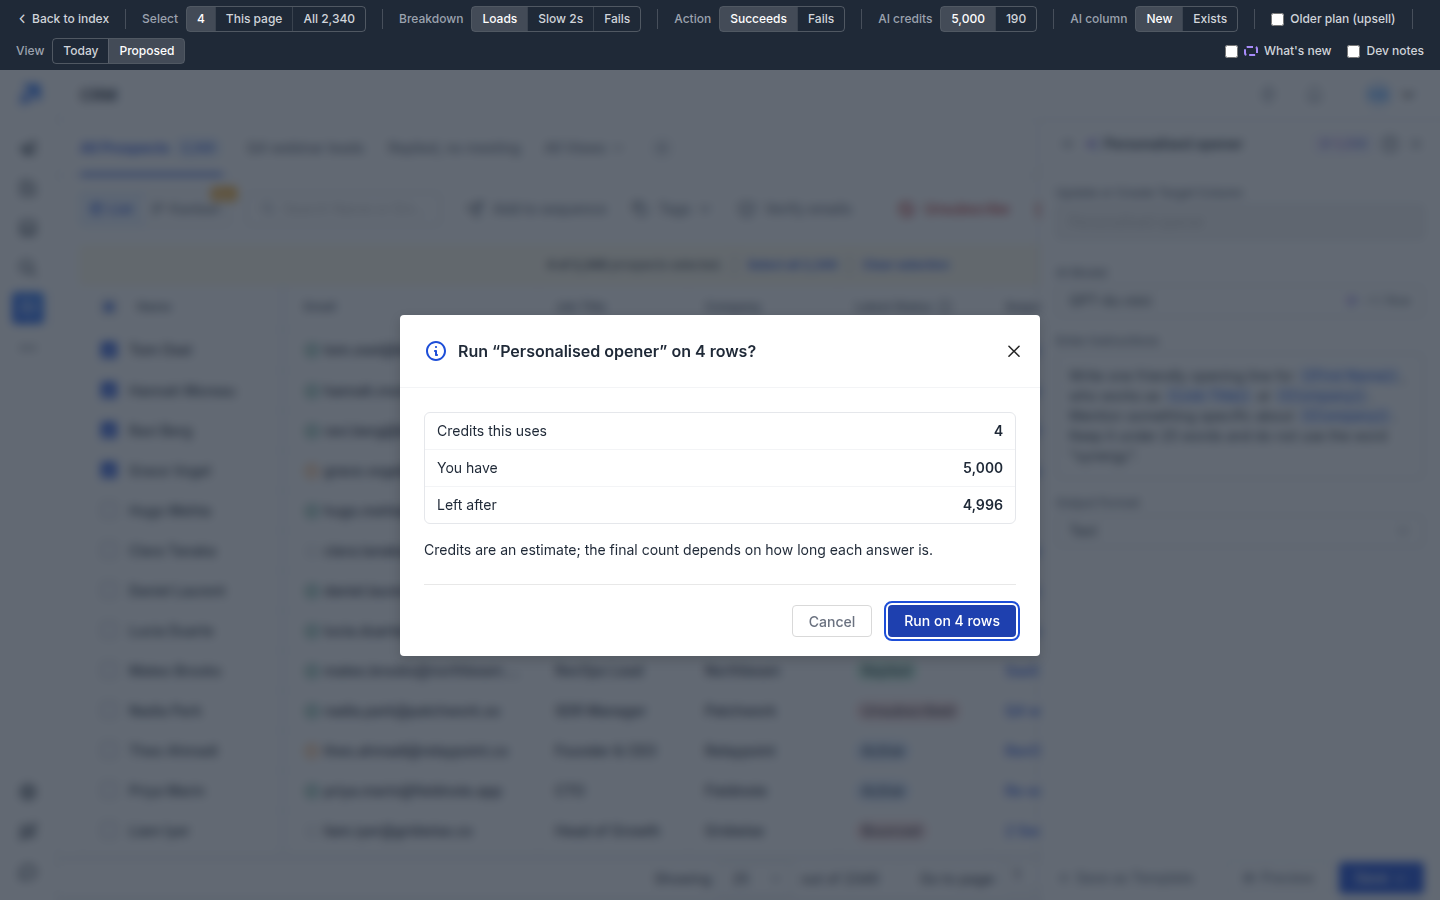
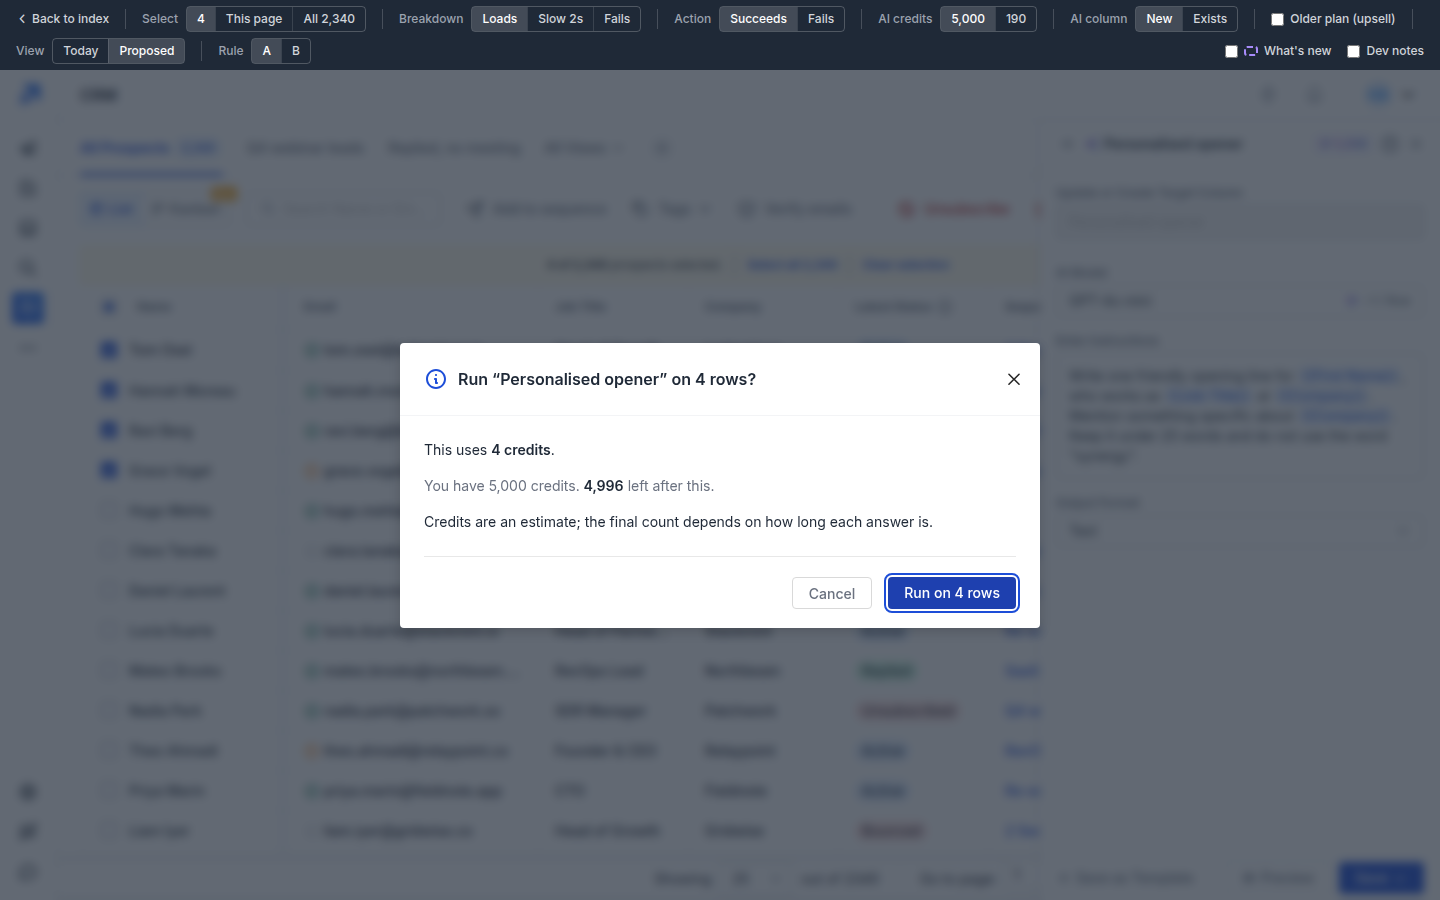
Credit dialogs read as a receipt; versioned script refs
- Mixed costs: one row per type with count x rate, total last; one cost is a sentence
- Balance is one line under it: You have X credits. Y left after this (or Z short, in red)
- Shared by Lead Finder reveal, Save to list, Add to sequence, Email Verifier, CRM AI run and replace
- Spec credit rule, PRD LF-1, dev notes, screens 20 27 28 updated
- Local scripts and styles load with ?v=20261120 so a cached kit cannot pair with new page code

diff --git a/prototype/lead-finder.js b/prototype/lead-finder.js
@@ -109,9 +109,9 @@
     devNotes: {
       intro: 'Spec rows 21 to 25. Credit totals are count x per-lead rate, known before the dialog opens, so L dialogs have no counting state. Remove from list is the only action here with undo; spends never get undo.',
       rows: [
-        { n: 21, surface: 'Lead Finder > People (Total, New)', action: 'Bulk View Work Email, View Phone', patterns: 'A L', breakdown: 'Credits by type: work emails at 1 credit, phone numbers at 6 (View Phone reveals email + phone, 7 per lead). You have, Left after; shortfall replaces Left after. Partial run spends what is there. Today\'s tag picker is kept inside the dialog.', undo: 'No (spend)',
+        { n: 21, surface: 'Lead Finder > People (Total, New)', action: 'Bulk View Work Email, View Phone', patterns: 'A L', breakdown: 'A receipt: work emails 250 × 1, phone numbers 250 × 6 (View Phone reveals email + phone, 7 per lead), total last. One cost alone is a sentence. Under it one balance line: "You have 4,820 credits. 3,070 left after this.", or "60 short." in red. Partial run spends what is there. Today\'s tag picker is kept inside the dialog.', undo: 'No (spend)',
           code: [{ label: 'v2-lead-header.tsx L636-666 (View Work Email, View Phone)', url: V2 + 'header/v2-lead-header.tsx#L636-L666' }, { label: 'useBulkReveal.ts L134-184 (per-lead costs, check only)', url: V2 + 'hooks/useBulkReveal.ts#L134-L184' }, { label: 'bulk-reveal-tag-modal.tsx L52-58 (count, no credit total)', url: V2 + 'modal/bulk-reveal-tag-modal/bulk-reveal-tag-modal.tsx#L52-L58' }, { label: 'credit-not-available-modal.tsx (per-lead price only)', url: V2 + 'modal/credit-not-available-modal/credit-not-available-modal.tsx' }] },
-        { n: 22, surface: 'Lead Finder > People (Total, New)', action: 'Save to List, Add to Sequence with reveal', patterns: 'L', breakdown: 'Credits this uses (by type when Email + Phone is on), You have, Left after. Saved tab spends nothing and skips the cost step.', undo: 'No (spend)',
+        { n: 22, surface: 'Lead Finder > People (Total, New)', action: 'Save to List, Add to Sequence with reveal', patterns: 'L', breakdown: 'Same receipt and balance line as row 21 (one row per type when Email + Phone is on). Saved tab spends nothing and skips the cost step.', undo: 'No (spend)',
           code: [{ label: 'add-to-list-dropdown.tsx L527-616 (per-unit chip, no total)', url: V2 + 'add-to-list-dropdown/add-to-list-dropdown.tsx#L527-L616' }, { label: 'add-to-sequence-reveal-modal.tsx L41-74 (per-unit chip)', url: V2 + 'modal/add-to-sequence-reveal-modal/add-to-sequence-reveal-modal.tsx#L41-L74' }] },
         { n: 23, surface: 'Lead Finder > People > Saved', action: 'Remove From List', patterns: 'A F H', breakdown: 'List named in the title. Rows: also in other lists, only in this list. Several lists picked: one row per list. "This empties the list." when every lead in it is selected.', undo: 'Yes, 10 seconds',
           code: [{ label: 'v2-lead-header.tsx L618-633 (button)', url: V2 + 'header/v2-lead-header.tsx#L618-L633' }, { label: 'remove-from-list-modal.tsx L49-70 (no count, "Apply")', url: V2 + 'remove-from-list-modal/remove-from-list-modal.tsx#L49-L70' }] },
@@ -255,8 +255,8 @@
     const list = selList();
     const needEmail = list.filter((l) => !l.email && !l.emailNotFound).length;
     const needPhone = kind === 'phone' ? list.filter((l) => !l.phone && !l.phoneNotFound).length : 0;
-    const items = [{ label: `${fmt(needEmail)} work ${plural(needEmail, 'email', 'emails')} at 1 credit each`, credits: needEmail * COST.email }];
-    if (kind === 'phone') items.push({ label: `${fmt(needPhone)} phone ${plural(needPhone, 'number', 'numbers')} at 6 credits each`, credits: needPhone * COST.phone });
+    const items = [{ name: 'Work emails', qty: needEmail, rate: COST.email, credits: needEmail * COST.email }];
+    if (kind === 'phone') items.push({ name: 'Phone numbers', qty: needPhone, rate: COST.phone, credits: needPhone * COST.phone });
     return { list, needEmail, needPhone, items: kind === 'phone' ? items : [{ label: 'Credits this uses', credits: needEmail * COST.email }], already: list.length - (kind === 'phone' ? Math.max(needEmail, needPhone) : needEmail) };
   }
   function openReveal(kind) {
@@ -349,7 +349,7 @@
     const go = (count) => () => { const t = list.slice(0, count); clearSel(); revealRows(t.filter((l) => !l.email), phone); nxToast({ message: `Saving ${nL(t.length)} to ${where}. Their ${phone ? 'emails and phones are' : 'emails are'} being revealed.`, delay: 4000 }); };
     return costDialog({
       title: `Reveal ${phone ? 'emails and phones' : 'work emails'} for ${nL(N)} and save them to ${where}?`,
-      items: phone ? [{ label: `${fmt(needE)} work emails at 1 credit each`, credits: needE }, { label: `${fmt(needP)} phone numbers at 6 credits each`, credits: needP * 6 }] : [{ label: 'Credits this uses', credits: needE }],
+      items: phone ? [{ name: 'Work emails', qty: needE, rate: 1, credits: needE }, { name: 'Phone numbers', qty: needP, rate: 6, credits: needP * 6 }] : [{ label: 'Credits this uses', credits: needE }],
       have, primaryLabel: `Save ${nL(N)}`,
       partial: fit > 0 ? { label: `Save ${nL(fit)}`, onConfirm: go(fit) } : null,
       onBuy: () => nxToast({ message: 'Opens Billing > Lead Finder credits. Not part of this prototype' }),
@@ -388,7 +388,7 @@
     const go = (count) => () => { const t = list.slice(0, count); clearSel(); revealRows(t, phone); nxToast({ message: `Adding ${nL(t.length)} to “${SEQ}” as their emails are revealed.`, delay: 4000 }); };
     return costDialog({
       title: `Reveal ${phone ? 'emails and phones' : 'work emails'} for ${nL(N)} and add them to “${SEQ}”?`,
-      items: phone ? [{ label: `${fmt(needE)} work emails at 1 credit each`, credits: needE }, { label: `${fmt(needP)} phone numbers at 6 credits each`, credits: needP * 6 }] : [{ label: 'Credits this uses', credits: needE }],
+      items: phone ? [{ name: 'Work emails', qty: needE, rate: 1, credits: needE }, { name: 'Phone numbers', qty: needP, rate: 6, credits: needP * 6 }] : [{ label: 'Credits this uses', credits: needE }],
       have, primaryLabel: `Add ${nL(N)}`,
       consequence: 'They start at Step 1 of the sequence.',
       partial: fit > 0 ? { label: `Add ${nL(fit)}`, onConfirm: go(fit) } : null,

diff --git a/prototype/kit/kit.js b/prototype/kit/kit.js
@@ -815,13 +815,18 @@
     o = Object.assign({ items: [], have: 0, submit: 'ok' }, o);
     const uses = o.items.reduce((s, i) => s + i.credits, 0);
     const short = Math.max(0, uses - o.have);
-    const rows = o.items.length > 1
-      ? o.items.map((i) => ({ label: i.label, value: fmt(i.credits) + ' credits' }))
-      : [{ label: 'Credits this uses', value: fmt(uses) }];
-    if (o.items.length > 1) rows.push({ label: 'Credits this uses', value: fmt(uses), cls: 'nx-total' });
-    rows.push({ label: 'You have', value: fmt(o.have) });
-    rows.push(short ? { label: 'Shortfall', value: `${fmt(short)} credits`, cls: 'nx-short' } : { label: 'Left after', value: fmt(o.have - uses) });
-    const body = h(`<div class="nx-impact nx-new"><dl class="nx-rows">${rows.map((r) => `<div class="nx-row ${r.cls || ''}"><dt>${r.label}</dt><dd>${r.value}</dd></div>`).join('')}</dl>${o.consequence ? `<p class="nx-consequence">${o.consequence}</p>` : ''}</div>`);
+    const cr = (n) => `${fmt(n)} ${plural(n, 'credit', 'credits')}`;
+    // an item is { name, qty, rate, credits }; older callers pass { label, credits }
+    const iname = (i) => i.name || i.label;
+    const imath = (i) => (i.qty != null ? `${fmt(i.qty)} × ${fmt(i.rate)}` : '');
+    // what it costs reads like a receipt (total last); the balance is one line under it
+    const bal = short
+      ? `You have ${cr(o.have)}. <b class="nx-cost-short">${fmt(short)} short.</b>`
+      : `You have ${cr(o.have)}. <b>${fmt(o.have - uses)}</b> left after this.`;
+    const html = o.items.length > 1
+      ? `<dl class="nx-rows nx-receipt">${o.items.map((i) => `<div class="nx-row"><dt>${iname(i)}<span class="nx-math">${imath(i)}</span></dt><dd>${fmt(i.credits)}</dd></div>`).join('')}<div class="nx-row nx-total"><dt>Total</dt><dd>${cr(uses)}</dd></div></dl><p class="nx-balance">${bal}</p>`
+      : `<p class="nx-cost-line">This uses <b>${cr(uses)}</b>.</p><p class="nx-balance">${bal}</p>`;
+    const body = h(`<div class="nx-impact nx-new nx-cost">${html}${o.consequence ? `<p class="nx-consequence">${o.consequence}</p>` : ''}</div>`);
     const run = (fn) => (c) => {
       c.setError(null); c.setBusy(true);
       setTimeout(() => {

diff --git a/prototype/crm-prospects.js b/prototype/crm-prospects.js
@@ -514,8 +514,8 @@
     const body = h('<div class="nx-impact nx-new"><div class="nx-breakdown" aria-live="polite"></div><dl class="nx-rows crm-credit-rows"></dl><p class="nx-consequence"></p></div>');
     const bd = body.querySelector('.nx-breakdown');
     bd.innerHTML = '<dl class="nx-rows" aria-busy="true" aria-label="Counting"><div class="nx-row"><dt><span class="react-loading-skeleton nx-skel-l"></span></dt><dd><span class="react-loading-skeleton"></span></dd></div><div class="nx-row"><dt><span class="react-loading-skeleton nx-skel-l"></span></dt><dd><span class="react-loading-skeleton"></span></dd></div></dl>';
-    body.querySelector('.crm-credit-rows').innerHTML = [['Credits this uses', fmt(uses), ''], ['You have', fmt(have), ''], short ? ['Shortfall', `${fmt(short)} credits`, 'nx-short'] : ['Left after', fmt(have - uses), '']]
-      .map(([a, b, c]) => `<div class="nx-row ${c}"><dt>${a}</dt><dd>${b}</dd></div>`).join('');
+    // same spend lines as nxCostDialog: one sentence for the cost, one for the balance
+    body.querySelector('.crm-credit-rows').outerHTML = `<div class="nx-cost" style="display: contents;"><p class="nx-cost-line">This uses <b>${fmt(uses)} ${plural(uses, 'credit', 'credits')}</b>.</p><p class="nx-balance">You have ${fmt(have)} ${plural(have, 'credit', 'credits')}. ${short ? `<b class="nx-cost-short">${fmt(short)} short.</b>` : `<b>${fmt(have - uses)}</b> left after this.`}</p></div>`;
     body.querySelector('.nx-consequence').textContent = 'Current values in this column are replaced with new ones from the latest prompt. This can\'t be undone.';
     const run = (rows) => (c) => {
       c.setError(null); c.setBusy(true);

diff --git a/prototype/kit/kit.css b/prototype/kit/kit.css
@@ -181,6 +181,15 @@ body { font-family: Inter, sans-serif; background: #fff; color: var(--nx-text); 
 .nx-rows .nx-row.nx-total { background: var(--nx-gray-50); }
 .nx-rows .nx-row.nx-total dt, .nx-rows .nx-row.nx-total dd { font-weight: 600; }
 .nx-rows .nx-row.nx-short dd { color: var(--nx-red); }
+/* L: spend dialogs */
+.nx-cost .nx-math { margin-left: 8px; color: var(--nx-text-2); font-variant-numeric: tabular-nums; }
+.nx-cost .nx-cost-short { color: var(--nx-red); font-weight: 600; }
+.nx-cost .nx-balance { color: var(--nx-text-2); }
+.nx-cost .nx-balance b { color: var(--nx-text); font-weight: 600; font-variant-numeric: tabular-nums; }
+.nx-cost .nx-balance b.nx-cost-short { color: var(--nx-red); }
+.nx-cost .nx-cost-line b { font-weight: 600; }
+.nx-cost .nx-receipt .nx-row.nx-total { background: none; border-top: 1px solid var(--nx-border); }
+.nx-cost .nx-receipt + .nx-balance { margin-top: -4px; }
 .nx-rows .react-loading-skeleton { width: 40px; height: 12px; display: block; border-radius: 4px; margin: 4px 0; }
 .nx-rows .nx-row .nx-skel-l { width: 168px; height: 12px; }
 .nx-loadfail { display: flex; gap: 8px; align-items: flex-start; padding: 8px 12px; border: 1px solid var(--nx-border); border-radius: 6px; background: var(--nx-gray-50); color: var(--nx-text-2); font-size: 14px; line-height: 20px; }

diff --git a/prototype/popup-directions.html b/prototype/popup-directions.html
@@ -6,7 +6,7 @@
 <title>Bulk bar popups: directions</title>
 <link href="https://fonts.googleapis.com/css2?family=Inter:wght@400;500;600;700&display=swap" rel="stylesheet">
 <link rel="stylesheet" href="prod/index.css">
-<link rel="stylesheet" href="kit/kit.css">
+<link rel="stylesheet" href="kit/kit.css?v=20261120">
 <style>
 html, body { height: auto; overflow: auto; }
 body { margin: 0; background: #f9fafb; color: #1f2937; font: 14px/20px Inter, sans-serif; }
@@ -112,8 +112,8 @@ table.t td.n { white-space: nowrap; font-weight: 600; font-variant-numeric: tabu
 </table>
 <p class="l" style="margin-top:12px">Verified: layout and classes render from the kit's nxDialog (production ConfirmationModalV3). Assumed: the can't-undo facts for Unsubscribe and Finished come from the 19 Nov review notes, not from the backend; "add them again" after unsubscribe is the review's stated workaround and re-adding an unsubscribed prospect may be blocked by compliance, so Dhruv or Chintan should confirm it before it ships in copy.</p>
 </main>
-<script src="kit/kit.js"></script>
-<script src="sequence-prospects-markup.js"></script>
+<script src="kit/kit.js?v=20261120"></script>
+<script src="sequence-prospects-markup.js?v=20261120"></script>
 <script>
 (function () {
   const { h } = NX;

diff --git a/prototype/tasks.html b/prototype/tasks.html
@@ -10,7 +10,7 @@
 <link href="https://fonts.googleapis.com/css2?family=Inter:wght@400;500;600;700&display=swap" rel="stylesheet">
 <!-- Production stylesheet, verbatim from my.saleshandy.com; icon font repointed to local files beside it. -->
 <link rel="stylesheet" href="prod/index.css">
-<link rel="stylesheet" href="kit/kit.css">
+<link rel="stylesheet" href="kit/kit.css?v=20261120">
 <style>
 /* page-only rules. Production layout comes from prod/index.css; nx- and tk- rules cover what is new or what the demo bar changes. */
 #tk-root { flex: 1; min-height: 0; display: flex; flex-direction: column; }
@@ -66,8 +66,8 @@ body:has(.pagination-container-new) .nx-toasts.bs-message-container .bs-message.
 </style>
 </head>
 <body>
-<script src="kit/kit.js"></script>
-<script src="tasks-markup.js"></script>
-<script src="tasks.js"></script>
+<script src="kit/kit.js?v=20261120"></script>
+<script src="tasks-markup.js?v=20261120"></script>
+<script src="tasks.js?v=20261120"></script>
 </body>
 </html>

diff --git a/prototype/crm-prospects.html b/prototype/crm-prospects.html
@@ -10,7 +10,7 @@
 <link href="https://fonts.googleapis.com/css2?family=Inter:wght@400;500;600;700&display=swap" rel="stylesheet">
 <!-- Production stylesheet, verbatim from my.saleshandy.com; icon font repointed to local files beside it. -->
 <link rel="stylesheet" href="prod/index.css">
-<link rel="stylesheet" href="kit/kit.css">
+<link rel="stylesheet" href="kit/kit.css?v=20261120">
 <style>
 /* page-only rules. Production layout comes from prod/index.css; nx- rules cover what is new, crm- rules stand in
    for third-party widgets the prototype does not load (OverlayScrollbars, react-autosuggest, Select, the prompt editor). */
@@ -103,8 +103,8 @@
 </style>
 </head>
 <body>
-<script src="kit/kit.js"></script>
-<script src="crm-prospects-markup.js"></script>
-<script src="crm-prospects.js"></script>
+<script src="kit/kit.js?v=20261120"></script>
+<script src="crm-prospects-markup.js?v=20261120"></script>
+<script src="crm-prospects.js?v=20261120"></script>
 </body>
 </html>

diff --git a/prototype/unified-inbox.html b/prototype/unified-inbox.html
@@ -10,7 +10,7 @@
 <link href="https://fonts.googleapis.com/css2?family=Inter:wght@400;500;600;700&display=swap" rel="stylesheet">
 <!-- Production stylesheet, verbatim from my.saleshandy.com; icon font repointed to local files beside it. -->
 <link rel="stylesheet" href="prod/index.css">
-<link rel="stylesheet" href="kit/kit.css">
+<link rel="stylesheet" href="kit/kit.css?v=20261120">
 <style>
 /* page-only rules. Production layout comes from prod/index.css; ui-/nx- rules cover the prototype frame and what is new. */
 #ui-root { flex: 1; min-height: 0; display: flex; flex-direction: column; }
@@ -94,8 +94,8 @@
 </style>
 </head>
 <body>
-<script src="kit/kit.js"></script>
-<script src="unified-inbox-markup.js"></script>
-<script src="unified-inbox.js"></script>
+<script src="kit/kit.js?v=20261120"></script>
+<script src="unified-inbox-markup.js?v=20261120"></script>
+<script src="unified-inbox.js?v=20261120"></script>
 </body>
 </html>

diff --git a/prototype/sequence-prospects.html b/prototype/sequence-prospects.html
@@ -10,7 +10,7 @@
 <link href="https://fonts.googleapis.com/css2?family=Inter:wght@400;500;600;700&display=swap" rel="stylesheet">
 <!-- Production stylesheet, verbatim from my.saleshandy.com; icon font repointed to local files beside it. -->
 <link rel="stylesheet" href="prod/index.css">
-<link rel="stylesheet" href="kit/kit.css">
+<link rel="stylesheet" href="kit/kit.css?v=20261120">
 <style>
 /* page-only rules. Production layout comes from prod/index.css; nx- rules cover what is new. */
 #sp-root { flex: 1; min-height: 0; display: flex; flex-direction: column; }
@@ -69,8 +69,8 @@
 </style>
 </head>
 <body>
-<script src="kit/kit.js"></script>
-<script src="sequence-prospects-markup.js"></script>
-<script src="sequence-prospects.js"></script>
+<script src="kit/kit.js?v=20261120"></script>
+<script src="sequence-prospects-markup.js?v=20261120"></script>
+<script src="sequence-prospects.js?v=20261120"></script>
 </body>
 </html>

diff --git a/prototype/sequence-steps.html b/prototype/sequence-steps.html
@@ -10,7 +10,7 @@
 <link href="https://fonts.googleapis.com/css2?family=Inter:wght@400;500;600;700&display=swap" rel="stylesheet">
 <!-- Production stylesheet, verbatim from my.saleshandy.com; icon font repointed to local files beside it. -->
 <link rel="stylesheet" href="prod/index.css">
-<link rel="stylesheet" href="kit/kit.css">
+<link rel="stylesheet" href="kit/kit.css?v=20261120">
 <style>
 /* page-only rules. Production layout comes from prod/index.css; nx- rules cover what is new or demo-only. */
 #ss-root { flex: 1; min-height: 0; display: flex; flex-direction: column; }
@@ -32,8 +32,8 @@
 </style>
 </head>
 <body>
-<script src="kit/kit.js"></script>
-<script src="sequence-steps-markup.js"></script>
-<script src="sequence-steps.js"></script>
+<script src="kit/kit.js?v=20261120"></script>
+<script src="sequence-steps-markup.js?v=20261120"></script>
+<script src="sequence-steps.js?v=20261120"></script>
 </body>
 </html>

diff --git a/prototype/csv-import.html b/prototype/csv-import.html
@@ -10,7 +10,7 @@
 <link href="https://fonts.googleapis.com/css2?family=Inter:wght@400;500;600;700&display=swap" rel="stylesheet">
 <!-- Production stylesheet, verbatim from my.saleshandy.com; icon font repointed to local files beside it. -->
 <link rel="stylesheet" href="prod/index.css">
-<link rel="stylesheet" href="kit/kit.css">
+<link rel="stylesheet" href="kit/kit.css?v=20261120">
 <style>
 /* page-only rules. Production layout comes from prod/index.css; ci- rules place the stand-in CRM list and the popovers. */
 #ci-root { flex: 1; min-height: 0; display: flex; flex-direction: column; }
@@ -34,8 +34,8 @@
 </style>
 </head>
 <body>
-<script src="kit/kit.js"></script>
-<script src="csv-import-markup.js"></script>
-<script src="csv-import.js"></script>
+<script src="kit/kit.js?v=20261120"></script>
+<script src="csv-import-markup.js?v=20261120"></script>
+<script src="csv-import.js?v=20261120"></script>
 </body>
 </html>

diff --git a/prototype/settings.html b/prototype/settings.html
@@ -10,7 +10,7 @@
 <link href="https://fonts.googleapis.com/css2?family=Inter:wght@400;500;600;700&display=swap" rel="stylesheet">
 <!-- Production stylesheet, verbatim from my.saleshandy.com; icon font repointed to local files beside it. -->
 <link rel="stylesheet" href="prod/index.css">
-<link rel="stylesheet" href="kit/kit.css">
+<link rel="stylesheet" href="kit/kit.css?v=20261120">
 <style>
 /* page-only rules. Production layout comes from prod/index.css; st- and nx- rules cover the prototype and what is new. */
 #st-root { flex: 1; min-height: 0; display: flex; flex-direction: column; }
@@ -69,8 +69,8 @@
 </style>
 </head>
 <body>
-<script src="kit/kit.js"></script>
-<script src="settings-markup.js"></script>
-<script src="settings.js"></script>
+<script src="kit/kit.js?v=20261120"></script>
+<script src="settings-markup.js?v=20261120"></script>
+<script src="settings.js?v=20261120"></script>
 </body>
 </html>
